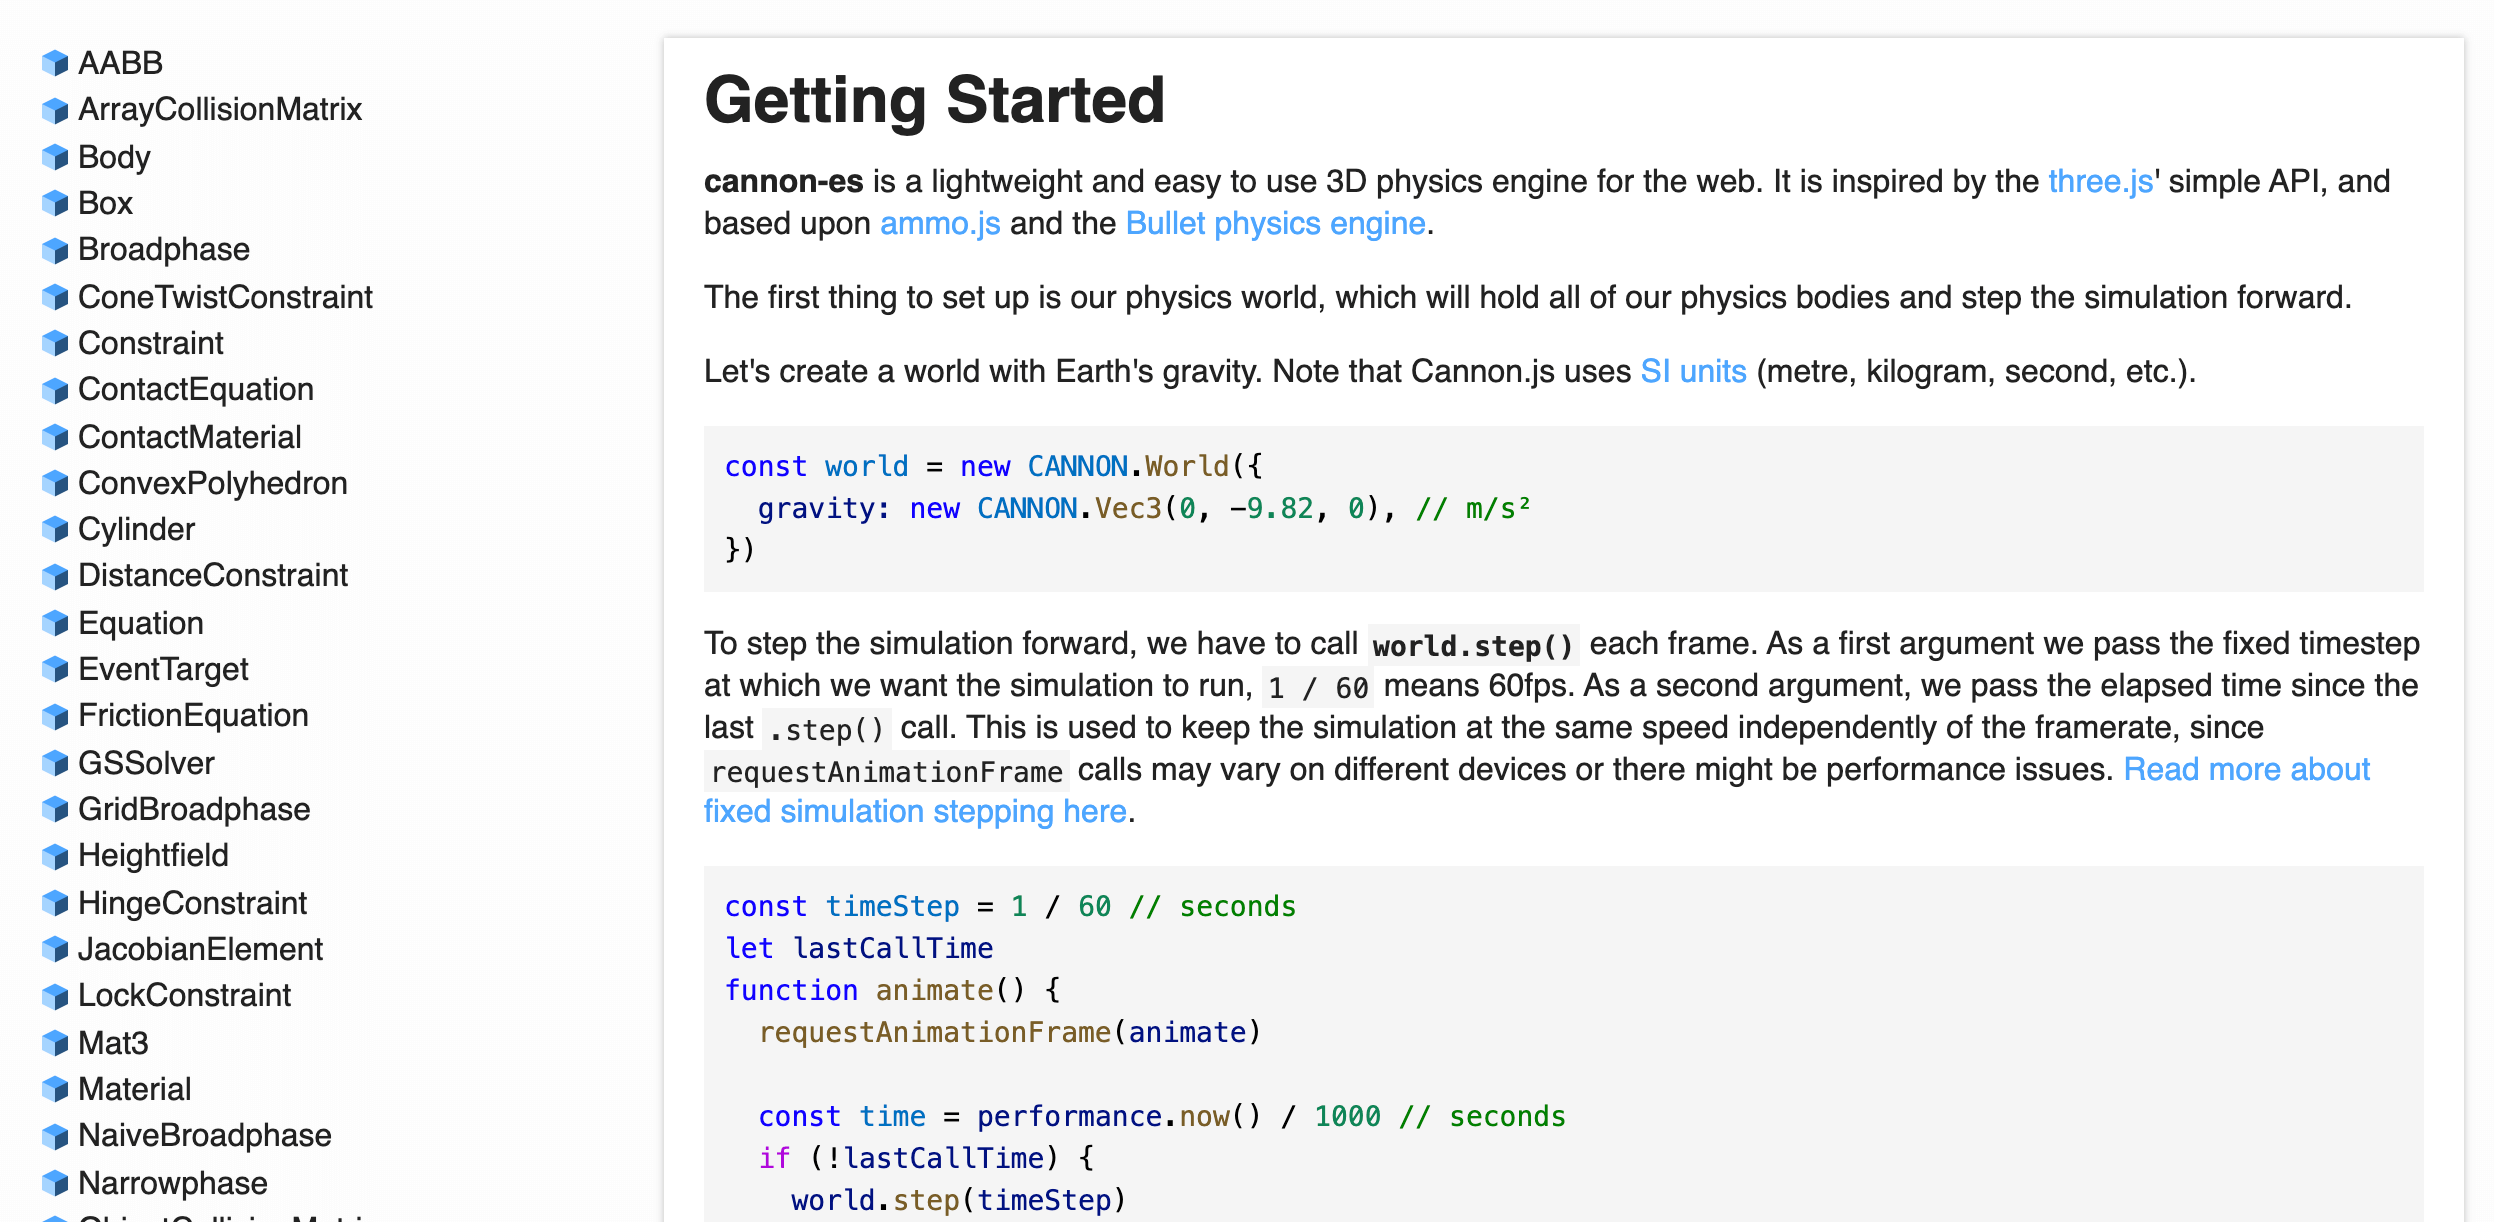
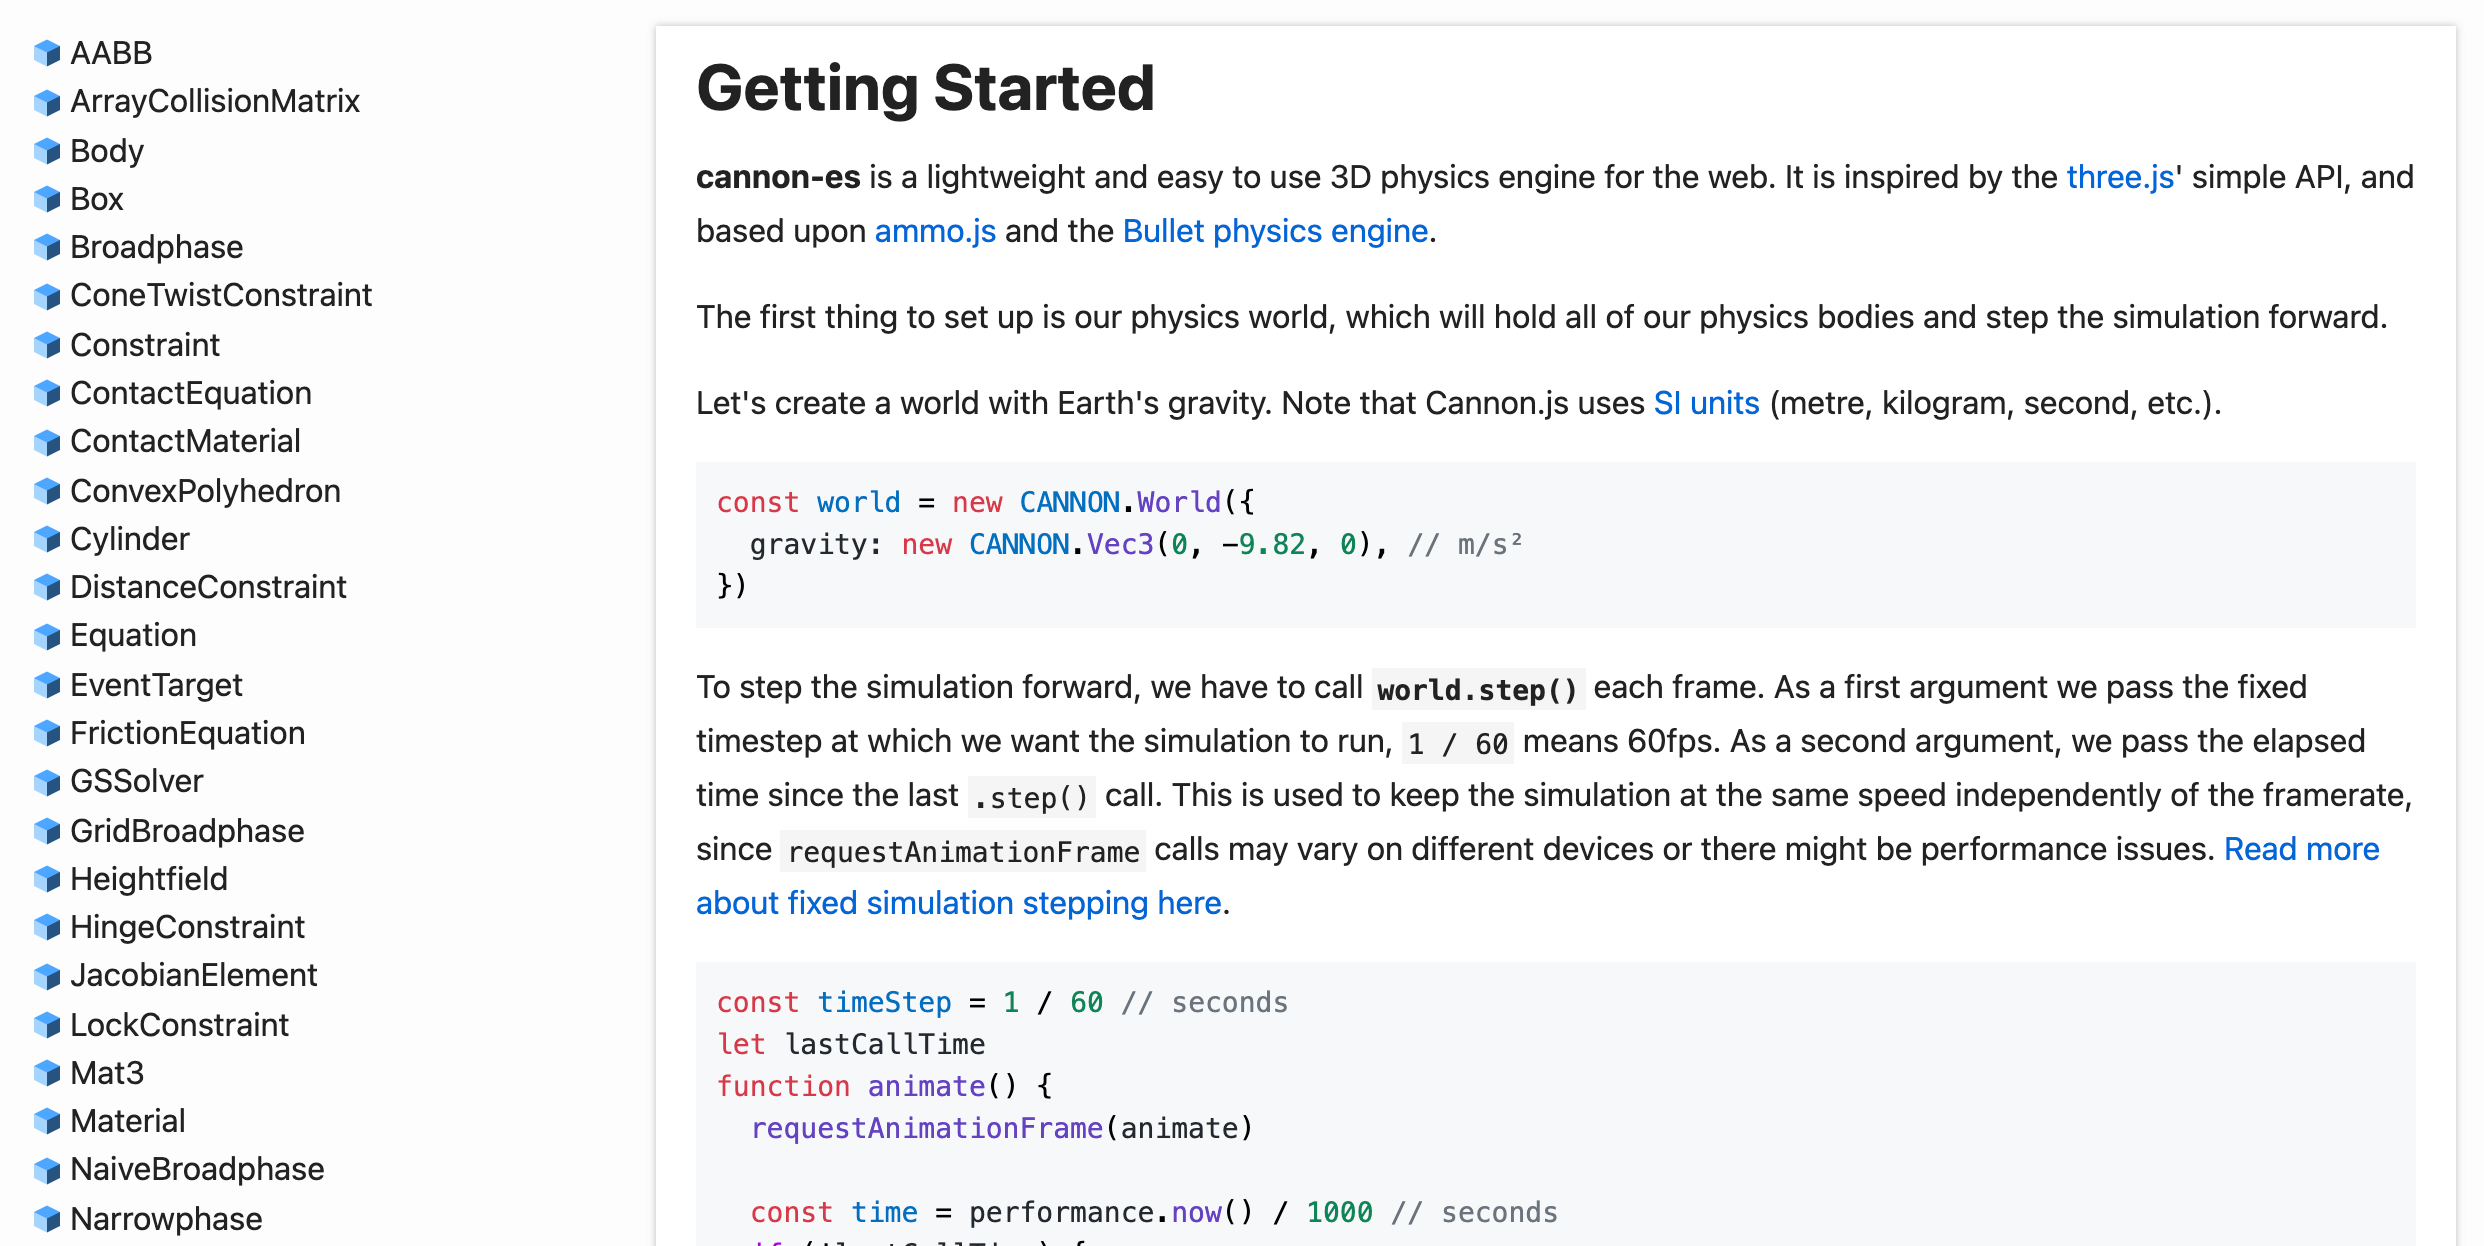
Improve docs styles

diff --git a/docs-style.css b/docs-style.css
@@ -1,3 +1,8 @@
+body {
+  font-family: -apple-system, BlinkMacSystemFont, Segoe UI, Helvetica, Arial, sans-serif, Apple Color Emoji,
+    Segoe UI Emoji !important;
+}
+
 .tsd-page-toolbar {
   transform: none !important;
 }
@@ -19,4 +24,36 @@
 #tsd-filter-only-exported,
 [for='tsd-filter-only-exported'] {
   display: none !important;
+}
+
+.tsd-typography p {
+  line-height: 1.7;
+}
+
+.tsd-typography p a {
+  color: #0366d6;
+}
+
+pre {
+  background: #f6f8fa !important;
+}
+
+/* comments */
+pre span[style='color: #008000'] {
+  color: #6a737d !important;
+}
+
+/* names */
+pre span[style='color: #795E26'] {
+  color: #6442c1 !important;
+}
+
+/* declarations */
+pre span[style='color: #0000FF'] {
+  color: #d73a49 !important;
+}
+
+/* variable names */
+pre span[style='color: #001080'] {
+  color: #24292e !important;
 }
